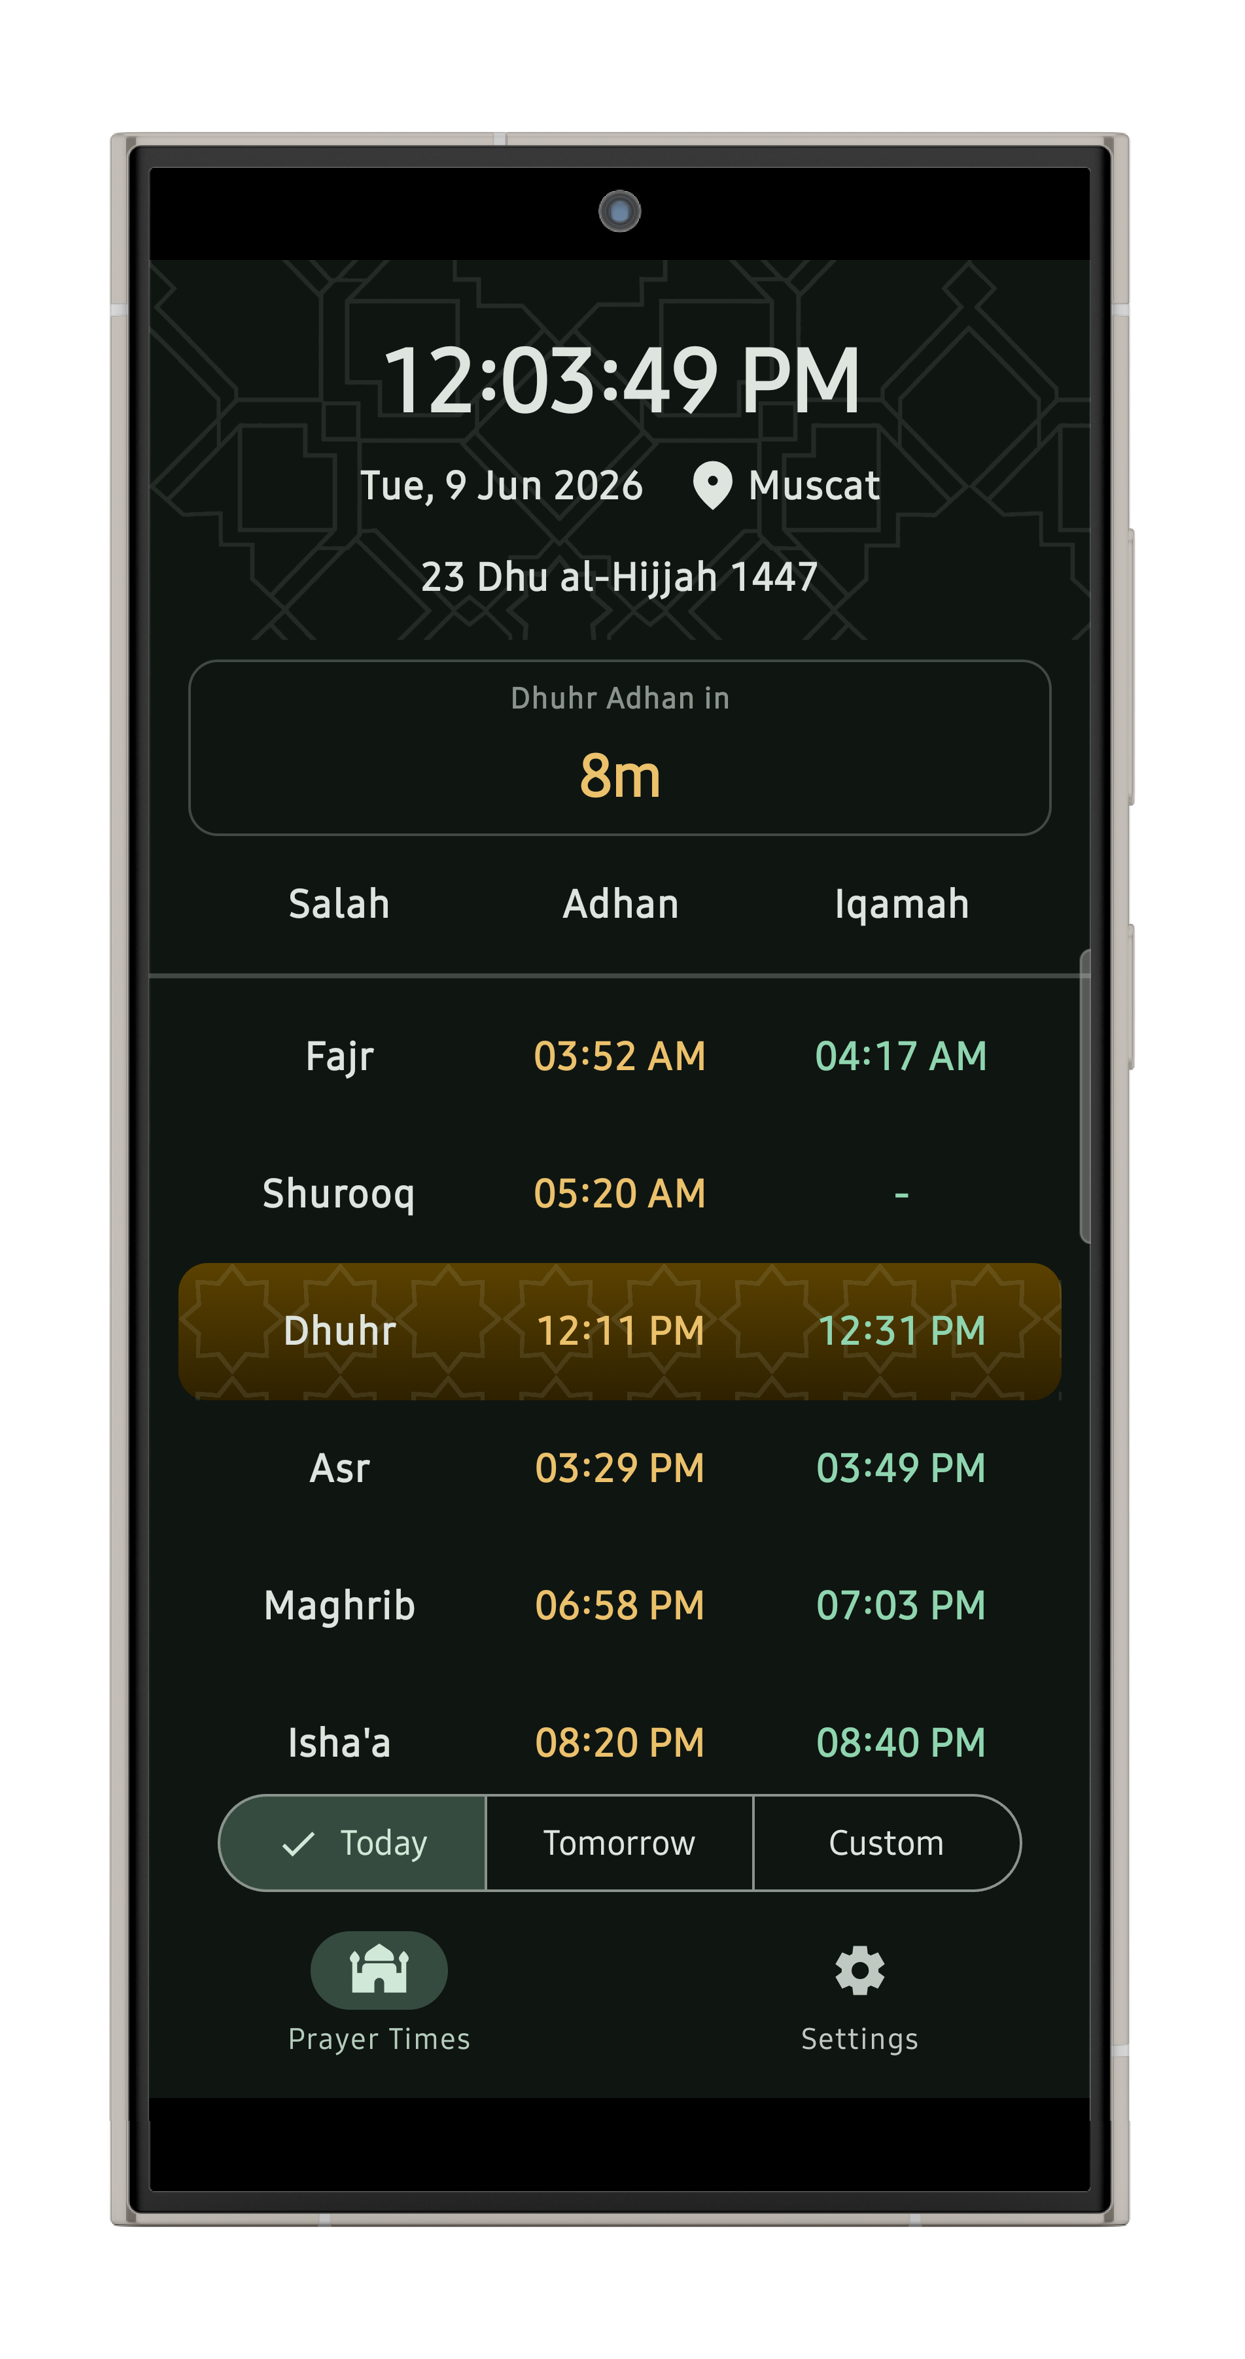
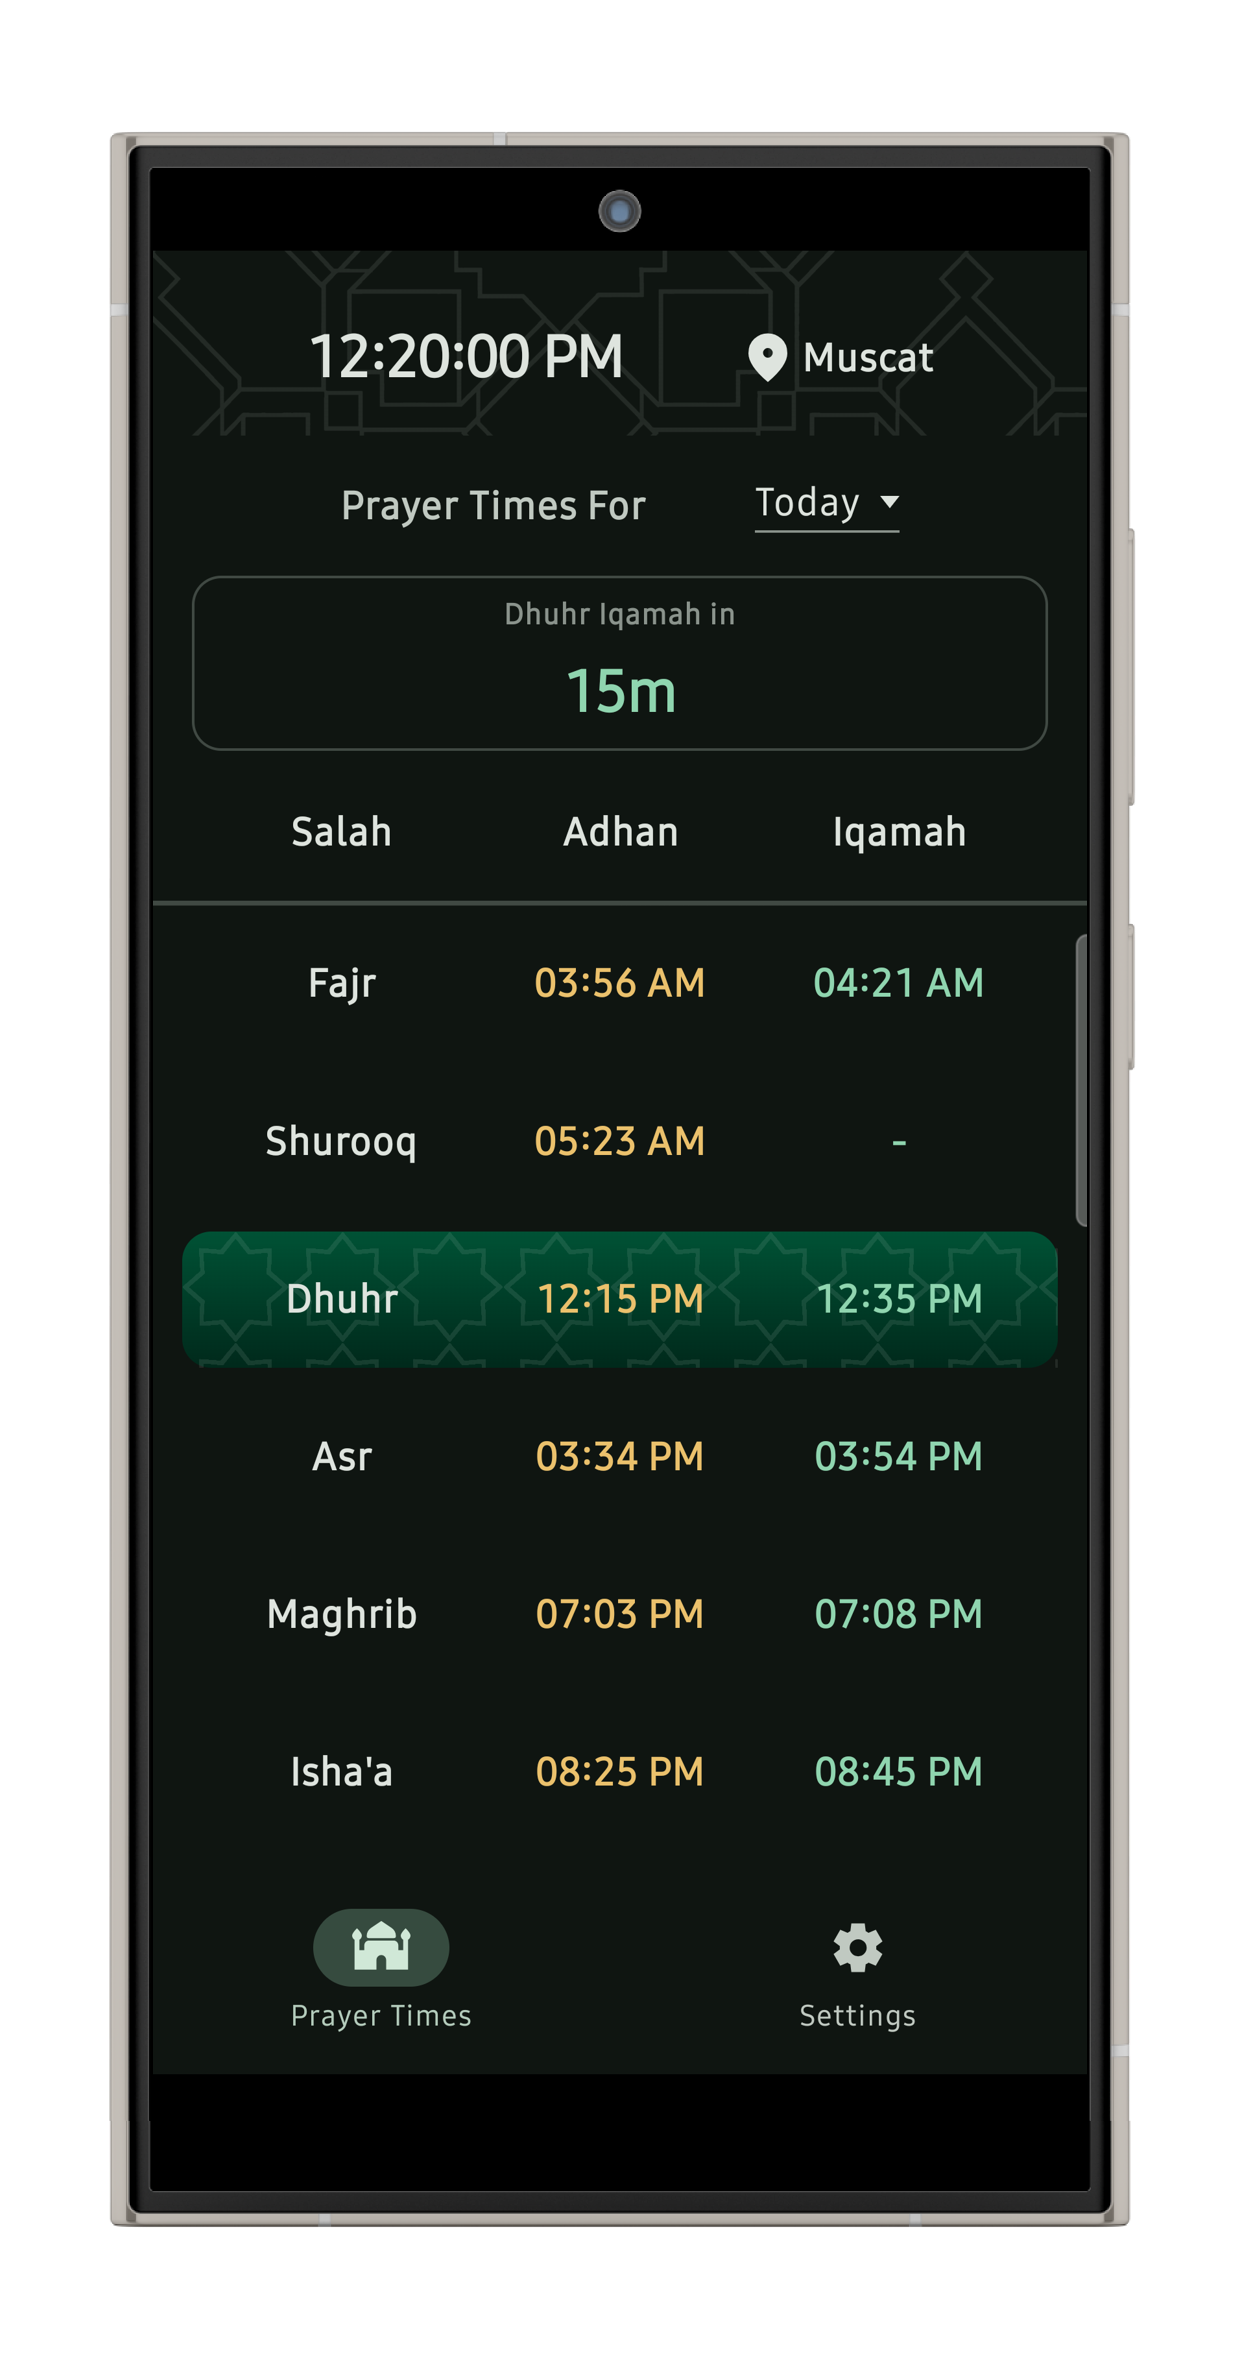
updated screenshots; updated README

diff --git a/README.md b/README.md
@@ -22,6 +22,10 @@ Ministry of Endowments and Religious Affairs (MERA)'s website.**
     <td><img src="./screenshots/screenshot_3.png" alt="" width="300"></td>
     <td><img src="./screenshots/screenshot_4.png" alt="" width="300"></td>
   </tr>
+  <tr>
+    <td><img src="./screenshots/screenshot_5.png" alt="" width="300"></td>
+    <td><img src="./screenshots/screenshot_6.png" alt="" width="300"></td>
+  </tr>
 </table>
 
 ## API
@@ -78,6 +82,10 @@ To build a debug APK:
 
 ### v26.07.1
 
+- Fixed: "Source Code" not translated to arabic.
+- City dropdown opens when the city label on the prayer times screen is pressed.
+- Fix back button during initial setup.
+- Pressing the prayer times button on the nav bar should not reset the table date.
 - Add Adhan Alarms
 - Add Custom Reminders
 - Show the last event on the event timer for a few minutes.